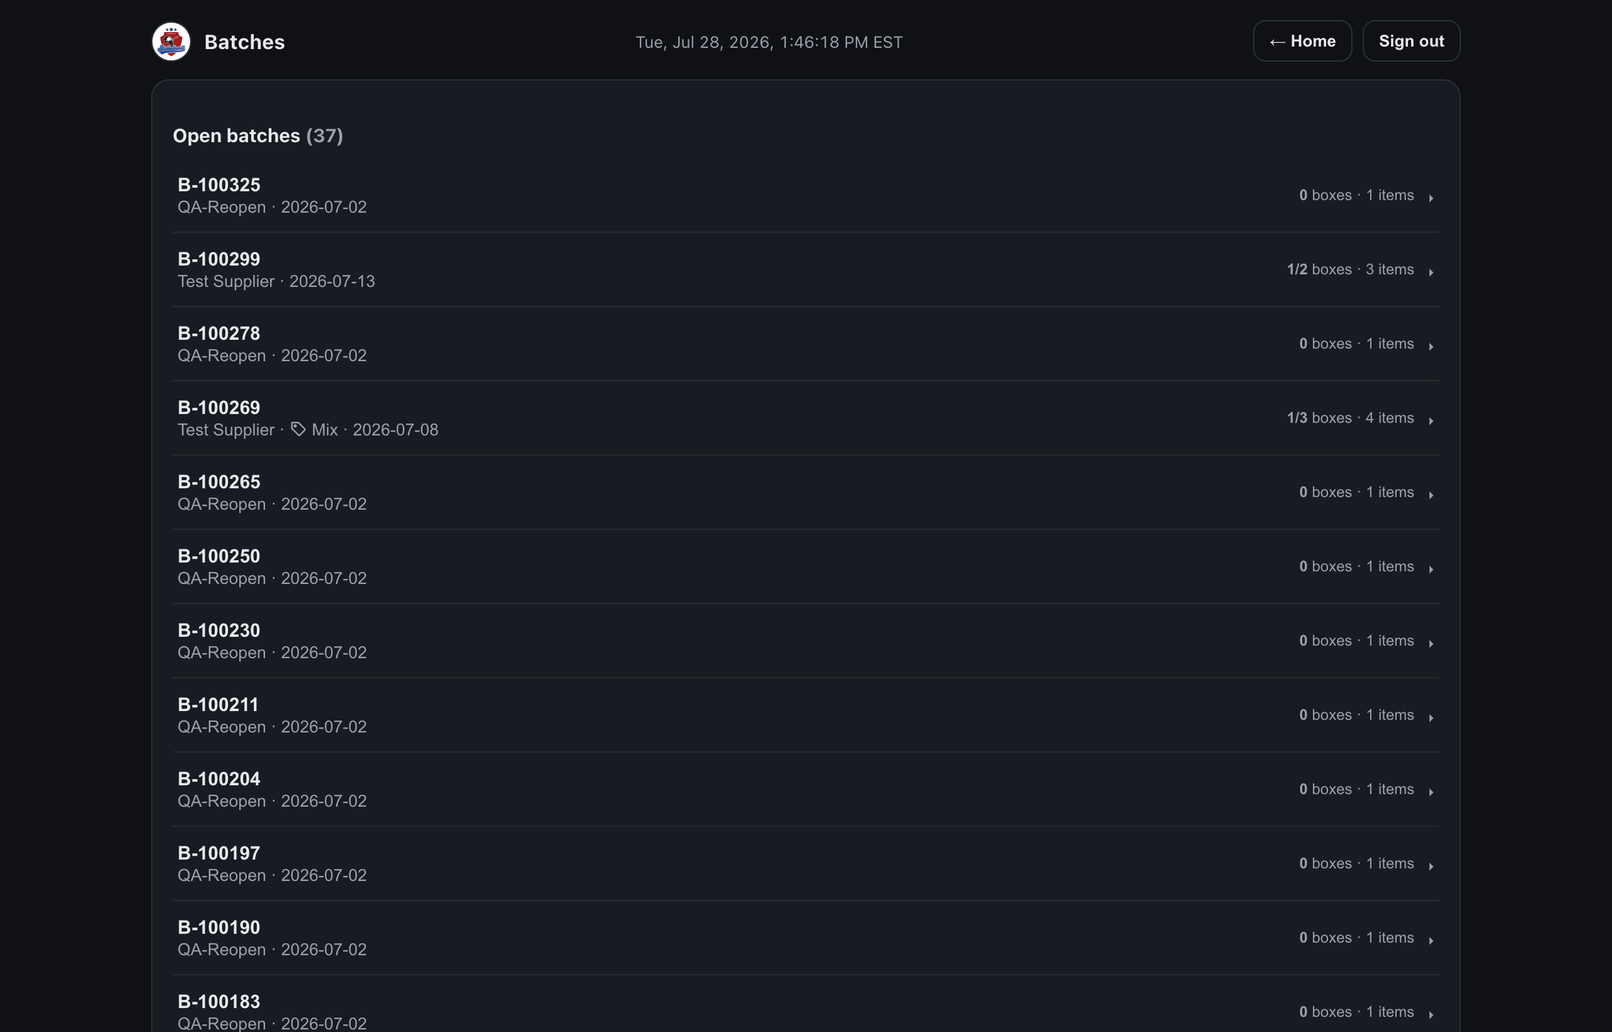
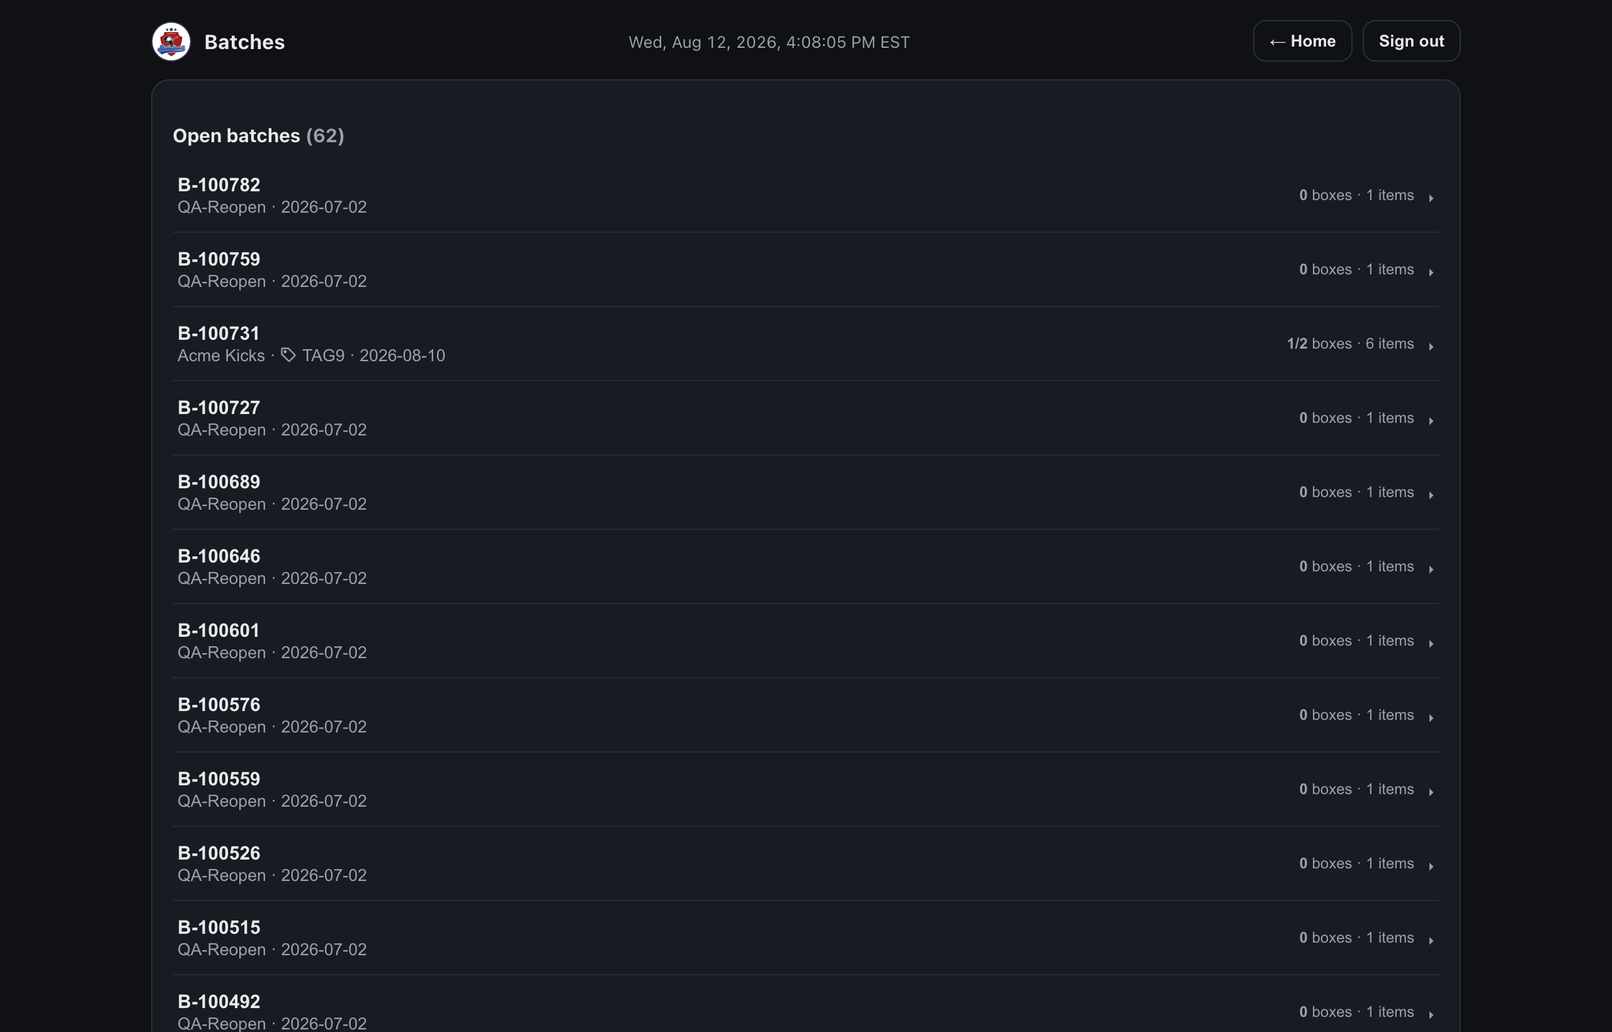
fix(batches): continue a pending box from the Batch page
Reported from the floor: "How do I continue a batch? When I go into batches and
click a batch I'm trying to continue, I am getting this screen but no obvious way
to continue or add items to any of the boxes marked 'pending'."

He was right -- a pending row was a dead end. The only action on the screen was
"+ Add box", which creates box N+1 rather than filling the box in his hands, so
following it would have quietly built a batch of empty boxes beside the real ones.

Each non-received box row now carries its own "Add items". It opens the receiving
wizard in box mode AIMED AT THAT BOX: onAddBox(batch, box) -> batchContext.box ->
boxTarget, the box's tracking prefills the header, and the commit passes
boxNumber = box.box_number so addBatchBox's find-or-create reuses that row instead
of opening a new one. Received boxes get no button -- they're closed, and the
box-commit CAS would refuse them anyway.

Also here:
- A line on the card saying what "pending" means and which button is which,
  since the two actions are one tap apart and only one of them is ever right.
- The row's button and its expand-to-shoes button are now siblings, not nested
  (a button inside a button is invalid, and the inner one eats the row's tap).
- On a phone the row could no longer hold box + tracking + count + status AND a
  button: the tracking number collapsed to "1...", which is the one thing you
  match against the label in your hand. It drops to its own line below 560px.
[…]

diff --git a/e2e/batch-continue-box.spec.js b/e2e/batch-continue-box.spec.js
@@ -1,0 +1,118 @@
+// Continuing a multi-box batch from the Batch page.
+//
+// Reported from the floor: "How do I continue a batch? I go into Batches, click the
+// batch, and there's no obvious way to continue or add items to any of the boxes
+// marked 'pending'." He was right — a pending row was a dead end. The only visible
+// action was "+ Add box", which creates box N+1 rather than filling the box in front
+// of him, so following it would have quietly built a batch of empty boxes.
+//
+// A pending box now carries its own "Add items", and the scans land in THAT box —
+// same row, same number, same tracking.
+import { test, expect } from '@playwright/test';
+import { signToken } from '../api/_lib/util.js';
+import { loadEnv, loginAs } from './helpers/auth.js';
+import pg from 'pg';
+
+loadEnv();
+const pool = new pg.Pool({ connectionString: process.env.DATABASE_URL });
+const q = (text, values) => pool.query(text, values).then((r) => r.rows);
+const authHeaders = () => ({
+  Authorization: `Bearer ${signToken({ uid: 'e2e-wh', username: 'e2e_wh', name: 'E2E Warehouse', role: 'warehouse' })}`,
+});
+
+const SUPPLIER = 'E2E Continue-Box Supplier';
+const SKU = 'E2E-CONTBOX-A';
+let batchId = null;
+let batchCode = null;
+
+// An open 3-box batch whose boxes are all recorded but empty — exactly the screen
+// that prompted the report.
+test.beforeAll(async ({ request }) => {
+  const created = await request.post('/api/batches/create-open', {
+    headers: authHeaders(),
+    data: { batch: { buyer: 'stickballman12', supplier: SUPPLIER, dateReceived: '2026-08-13', expectedBoxes: 3 } },
+  });
+  expect(created.status()).toBe(200);
+  ({ id: batchId, batchCode } = await created.json());
+  const synced = await request.post('/api/batches/sync-boxes', {
+    headers: authHeaders(),
+    data: {
+      batchId,
+      boxes: [1, 2, 3].map((n) => ({ boxNumber: n, trackingNumber: `E2E-CONT-${n}` })),
+    },
+  });
+  expect(synced.status()).toBe(200);
+});
+
+test.afterAll(async () => {
+  await q('DELETE FROM item_events WHERE item_id IN (SELECT id FROM items WHERE sku = $1)', [SKU]);
+  await q('DELETE FROM items WHERE sku = $1', [SKU]);
+  // Sweep the supplier, not just this run's batch — a spec that fails midway would
+  // otherwise leave an open batch behind in the dev DB on every attempt.
+  await q('DELETE FROM batch_boxes WHERE batch_id IN (SELECT id FROM batches WHERE supplier_name = $1)', [SUPPLIER]);
+  await q('DELETE FROM batches WHERE supplier_name = $1', [SUPPLIER]);
+  await pool.end();
+});
+
+// /batches has no deep link — the batch is reached the way staff reach it.
+async function openBatch(page) {
+  await page.goto('/batches');
+  await page.locator('.batch-nav-row').filter({ hasText: batchCode }).first().click();
+  await expect(page.locator('.batch-page-code')).toContainText(batchCode);
+}
+
+test('a pending box offers "Add items", and scans land in THAT box', async ({ page }) => {
+  await loginAs(page, 'warehouse');
+  await openBatch(page);
+
+  const row2 = page.locator('.box-row-wrap').filter({ hasText: 'Box 2' });
+  await expect(row2).toContainText('pending');
+  // The dead end this fixes: every pending row must offer the way forward.
+  await expect(page.locator('.box-row-add')).toHaveCount(3);
+
+  await row2.getByRole('button', { name: 'Add items' }).click();
+
+  // Box mode, aimed at box 2 — not "Add a box", which is the other thing entirely.
+  await expect(page.locator('.box-context')).toContainText('Box 2');
+  await expect(page.locator('.rows-title').first()).toContainText('Continue box 2');
+  // Its tracking comes along, so re-typing it isn't the price of continuing.
+  await expect(page.locator('.track-field input').first()).toHaveValue('E2E-CONT-2');
+
+  // Stub the catalogue so this spec tests the box plumbing, not a third party.
+  await page.route('**/api/items/find*', (r) => r.fulfill({ json: { ok: true, product: null, units: [] } }));
+  await page.route('**/api/sku-search', (r) => r.fulfill({
+    json: { ok: true, product: { name: 'E2E Continue Runner', sku: SKU, upc: null, image: null, brand: 'Nike', colorway: 'Black/White', sizes: ['9', '9.5'], gender: 'Men', source: 'alias' } },
+  }));
+  await page.getByRole('button', { name: 'Next →' }).click();
+  await page.getByRole('button', { name: '+ Add Item' }).click();
+  await page.locator('.modal.additem input').first().fill(SKU);
+  await page.locator('.modal.additem').getByRole('button', { name: 'Add' }).click();
+  await expect(page.locator('.modal.additem')).toContainText('E2E Continue Runner');
+  await page.locator('.size-chips').getByRole('button', { name: '9.5', exact: true }).click();
+  await page.getByRole('button', { name: 'Complete item ✓' }).click();
+  await expect(page.locator('.modal.additem')).toHaveCount(0);
+
+  await page.getByRole('button', { name: 'Review →' }).click();
+  await page.getByRole('button', { name: 'Next →' }).click();
+  await page.getByRole('button', { name: /Submit box/i }).click();
+  await page.getByRole('button', { name: /Yes, (commit|submit)/i }).click();
+  await expect(page.locator('.modal')).toContainText(/saved|received/i, { timeout: 15_000 });
+
+  // The real assertion: the pair is in box 2 — the batch still has THREE boxes, and
+  // no box 4 was quietly opened beside it.
+  const boxes = await q('SELECT box_number, status, (SELECT count(*)::int FROM items i WHERE i.box_id = bx.id) AS n FROM batch_boxes bx WHERE batch_id = $1 ORDER BY box_number', [batchId]);
+  expect(boxes.map((b) => b.box_number)).toEqual([1, 2, 3]);
+  expect(boxes.find((b) => b.box_number === 2).n).toBe(1);
+  expect(boxes.find((b) => b.box_number === 2).status).toBe('received');
+  expect(boxes.filter((b) => b.box_number !== 2).every((b) => b.n === 0)).toBe(true);
+});
+
+test('a received box has no "Add items" — it is closed', async ({ page }) => {
+  await loginAs(page, 'warehouse');
+  await openBatch(page);
+  const row2 = page.locator('.box-row-wrap').filter({ hasText: 'Box 2' });
+  await expect(row2).toContainText('received');
+  await expect(row2.getByRole('button', { name: 'Add items' })).toHaveCount(0);
+  // …while the ones still waiting keep theirs.
+  await expect(page.locator('.box-row-add')).toHaveCount(2);
+});

diff --git a/src/screens/BatchPage.jsx b/src/screens/BatchPage.jsx
@@ -84,6 +84,9 @@ export function BatchPage({ initialBatchId = null, onAddBox, onOpenItem, onHome,
             <h3 className="rows-title">Boxes <span className="muted">({boxes.length})</span></h3>
             {isOpen && <button className="btn primary sm" onClick={() => onAddBox(b)}>+ Add box</button>}
           </div>
+          {isOpen && boxes.some((x) => x.status !== 'received') && (
+            <p className="muted sm">“Pending” means the box is recorded but nothing has been scanned into it yet — tap <b>Add items</b> on its row to continue it. <b>+ Add box</b> is for a box that isn’t listed here at all.</p>
+          )}
           {!boxes.length ? <p className="muted">No boxes yet{isOpen ? ' — tap “Add box” to scan the first one.' : '.'}</p> : (
             <div className="box-list">
               {boxes.map((bx) => {
@@ -92,13 +95,26 @@ export function BatchPage({ initialBatchId = null, onAddBox, onOpenItem, onHome,
                 const empty = bx.item_count === 0;
                 return (
                   <div className={`box-row-wrap ${isBoxOpen ? 'open' : ''}`} key={bx.id}>
-                    <button className="box-row" onClick={() => setOpenBox(isBoxOpen ? null : bx.id)} title={boxItems.length ? 'Show shoes in this box' : 'No shoes in this box yet'}>
-                      <span className="box-caret">{boxItems.length ? (isBoxOpen ? '▾' : '▸') : '·'}</span>
-                      <span className="box-num">Box {bx.box_number}</span>
-                      <span className="box-track muted sm">{bx.tracking_number || 'no tracking'}</span>
-                      <span className="box-count" style={empty ? { color: '#e08f8f', fontWeight: 600 } : undefined}>{bx.item_count} item{bx.item_count === 1 ? '' : 's'}</span>
-                      <span className={`box-status ${bx.status}`}>{bx.status === 'received' ? '✓ received' : 'pending'}</span>
-                    </button>
+                    <div className="box-row-line">
+                      <button className="box-row" onClick={() => setOpenBox(isBoxOpen ? null : bx.id)} title={boxItems.length ? 'Show shoes in this box' : 'No shoes in this box yet'}>
+                        <span className="box-caret">{boxItems.length ? (isBoxOpen ? '▾' : '▸') : '·'}</span>
+                        <span className="box-num">Box {bx.box_number}</span>
+                        <span className="box-track muted sm">{bx.tracking_number || 'no tracking'}</span>
+                        <span className="box-count" style={empty ? { color: '#e08f8f', fontWeight: 600 } : undefined}>{bx.item_count} item{bx.item_count === 1 ? '' : 's'}</span>
+                        <span className={`box-status ${bx.status}`}>{bx.status === 'received' ? '✓ received' : 'pending'}</span>
+                      </button>
+                      {/* How you CONTINUE a box. A pending row is a box that was recorded
+                          (its tracking scanned, or its slot created up front) but never
+                          scanned into — and without this the row was a dead end: the only
+                          visible action was "+ Add box", which creates box N+1 rather than
+                          filling this one. Scans land in THIS box, keeping its number and
+                          tracking. Received boxes get no button: they're closed, and the
+                          commit would be refused anyway. */}
+                      {isOpen && bx.status !== 'received' && (
+                        <button className="btn primary sm box-row-add" onClick={() => onAddBox(b, bx)}
+                          title={`Scan shoes into box ${bx.box_number}`}>Add items</button>
+                      )}
+                    </div>
                     {isBoxOpen && (
                       <div className="box-items">
                         {!boxItems.length ? <div className="muted sm box-items-empty">No shoes in this box yet.</div> : boxItems.map((it) => (

diff --git a/src/screens/Receiving.jsx b/src/screens/Receiving.jsx
@@ -62,12 +62,19 @@ export function Receiving({ mode = 'receiving', navBack, batchContext = null, on
   // "Box mode": adding a box to an existing OPEN multi-box batch (from Batch Page).
   // Step 1 collects only the box tracking #; finish commits the box (boxCommit).
   const isBoxMode = !noShipment && !!batchContext;
+  // Set when CONTINUING an existing (pending) box from the Batch page, rather than
+  // adding a brand-new one. Its box_number is what makes the commit reuse that row —
+  // `addBatchBox` is find-or-create by number — so scans land in the box the user
+  // tapped instead of silently opening box N+1 beside it.
+  const boxTarget = isBoxMode ? (batchContext.box || null) : null;
   const today = estToday();
   const [tab, setTab] = useState('intake');   // 'intake' | 'recent'
   const [step, setStep] = useState(1);         // receiving: 1 shipment·2 items·3 review·4 issues | rescale: 1 details·2 items
 
   const [header, setHeader] = useState({
-    buyer: 'stickballman12', supplier: '', tracking: '', noTracking: false, dateReceived: today,
+    // Continuing an existing pending box: start from ITS tracking number, so a
+    // re-scan/edit is a deliberate act rather than the field silently blanking it.
+    buyer: 'stickballman12', supplier: '', tracking: batchContext?.box?.tracking_number || '', noTracking: false, dateReceived: today,
     defaultCost: '', notes: '', specialRules: '', origin: isInstore ? '' : 'returned', originOther: '',
     batchTag: '', expectedBoxes: '1', // V6 Feature 7: >1 → open multi-box batch
   });
@@ -788,7 +795,7 @@ export function Receiving({ mode = 'receiving', navBack, batchContext = null, on
         const boxTracking = isBoxMode
           ? (header.tracking || null)
           : (boxSlots[activeSlot]?.tracking?.trim() || null);
-        const boxNumber = isBoxMode ? null : activeSlot + 1;
+        const boxNumber = isBoxMode ? (boxTarget?.box_number ?? null) : activeSlot + 1;
         const { box } = await api.batchAddBox(batchId, boxTracking, boxNumber);
         const res = await api.boxCommit({
           batchId, boxId: box.id, items: out, unitIssues: flatUnitIssues,
@@ -909,10 +916,13 @@ export function Receiving({ mode = 'receiving', navBack, batchContext = null, on
           {step === 1 && (
             <>
               <div className="card">
-                <h3 className="rows-title">{isRescale ? 'Rescale details' : isInstore ? 'In-store trip' : isBoxMode ? 'Add a box' : 'Shipment details'}</h3>
+                <h3 className="rows-title">{isRescale ? 'Rescale details' : isInstore ? 'In-store trip' : isBoxMode ? (boxTarget ? `Continue box ${boxTarget.box_number}` : 'Add a box') : 'Shipment details'}</h3>
                 {isBoxMode && (
                   <div className="box-context">
-                    Adding a box to <b>{batchContext.batch_code}</b>{batchContext.batch_tag ? <> · <Icon name="tag" /> {batchContext.batch_tag}</> : ''} · {batchContext.supplier_name || '—'}
+                    {boxTarget
+                      ? <>Adding items to <b>Box {boxTarget.box_number}</b> of <b>{batchContext.batch_code}</b></>
+                      : <>Adding a box to <b>{batchContext.batch_code}</b></>}
+                    {batchContext.batch_tag ? <> · <Icon name="tag" /> {batchContext.batch_tag}</> : ''} · {batchContext.supplier_name || '—'}
                   </div>
                 )}
                 <div className="batch-form">

diff --git a/src/lib/sop/articles.warehouse.js b/src/lib/sop/articles.warehouse.js
@@ -49,6 +49,7 @@ export const WAREHOUSE_ARTICLES = [
     steps: [
       { do: 'On Step 1, set "Boxes expected" to the number of boxes.', note: 'The single tracking field disappears and a list of box rows appears in its place — one row per box.' },
       { do: 'For the box in front of you, type or scan its tracking number into its row.', note: 'If none of the boxes has a tracking number, tick "No tracking number" up in the header instead — the per-box fields disappear.' },
+      { do: 'Coming back to it another day? Batches → open the batch → "Add items" on the row of the box you are holding. The boxes still to do are the ones marked "pending".' },
       { do: 'Tap "Add items" on that row and run the box through Items → Review → Issues → Submit box.' },
       { do: 'You land back on the box list. Do the next box whenever it turns up.', note: 'Boxes can be done out of order — box 3 before box 1 is fine, each keeps its own number.' },
       { do: 'Tap "Finish batch" when everything has arrived.', note: 'The batch also closes itself once the received count reaches the expected count.' },
@@ -98,11 +99,13 @@ export const WAREHOUSE_ARTICLES = [
       { do: 'Home → Receiving Shipment Orders → Batches.' },
       { do: 'Open a batch to see its boxes, each with its tracking number and item count.' },
       { do: 'Expand a box row to see the shoes in it. Tap any VIN to open that unit\'s full detail and history.' },
-      { do: 'Tap "Add box" on an open batch to scan another box into it — this drops you into the receiving wizard in box mode.' },
+      { do: 'To CONTINUE a box marked "pending", tap "Add items" on its own row. That drops you into the receiving wizard aimed at that box — its number and tracking come with it, and everything you scan lands in it.', note: 'Pending means the box is recorded but nothing has been scanned into it yet. This is how you pick a batch back up.' },
+      { do: 'Tap "+ Add box" only for a box that is NOT already listed — a late arrival, or one nobody recorded. It creates the next box number.', warn: 'Do not use "+ Add box" to continue a pending box. It opens a new box beside it, and you end up with a batch of empty ones.' },
       { do: 'Tap "Finish"/mark done when the shipment is complete.', note: 'If the batch belongs to a purchase order, finishing it is what triggers the reconciliation check.' },
     ],
     rules: [
       'A red 0 on a box row means a tracking number was recorded but no items were ever scanned into it. Either scan it or investigate — it is not cosmetic.',
+      'A received box has no "Add items" button. Received is final — reopen the batch only if you genuinely need to correct it.',
     ],
     related: ['receive-multibox', 'receive-against-po', 'reconcile-warehouse'],
     keywords: ['open batch', 'past batches', 'resume', 'add box', 'batch page', 'history'],

diff --git a/src/lib/sop/faq.js b/src/lib/sop/faq.js
@@ -166,6 +166,13 @@ export const FAQ = [
 
   // -------------------------------------------------------------- receiving --
   {
+    id: 'faq-continue-batch',
+    q: 'How do I continue a batch? I open it and the boxes just say "pending".',
+    a: 'Tap "Add items" on the row of the box you are holding. "Pending" means that box is recorded but nothing has been scanned into it yet, and that button drops you into the receiving wizard aimed at that exact box — its number and tracking number come with it, so everything you scan lands in it. Use "+ Add box" only for a box that is not listed at all (a late arrival, or one nobody recorded); it creates the NEXT box number, so using it to continue a pending box leaves you with an empty box beside the one you meant to fill. Received boxes have no button — they are closed.',
+    area: 'intake', roles: WH, see: 'batches-manage',
+    keywords: ['continue', 'resume', 'pending', 'batch', 'add items', 'add box', 'stuck', 'no way to'],
+  },
+  {
     id: 'faq-tracking-required',
     q: 'Why will it not let me commit without a tracking number?',
     a: 'A receiving batch has to be traceable back to the shipment it came from — that link is what makes a discrepancy investigable weeks later. Supplier and tracking are both required and the server enforces it. If the shipment genuinely arrived without a tracking number — hand-delivered, local pickup, a supplier who never sent one — tick "No tracking number" under the field: it commits, and the batch records that there was none, which is different from a blank field. Rescale and in-store batches are exempt, since there is no shipment.',

diff --git a/src/App.jsx b/src/App.jsx
@@ -154,7 +154,8 @@ export default function App() {
   // Existing (old) stock: same admin/warehouse gate as in-store — ph_team short-
   // circuits to PHTeamApp above and never reaches this router.
   if (view === 'existing-stock') return <ExistingStock navBack={navBack} onHome={() => go('home')} onSignOut={signOut} />;
-  if (view === 'batches') return <BatchPage initialBatchId={batchReturnId} onAddBox={(batch) => { setBatchContext(batch); setBatchReturnId(batch.id); go('receiving'); }} onOpenItem={openItem} onHome={() => go('home')} onSignOut={signOut} />;
+  // `box` is set when continuing an EXISTING pending box; absent = add a new one.
+  if (view === 'batches') return <BatchPage initialBatchId={batchReturnId} onAddBox={(batch, box = null) => { setBatchContext({ ...batch, box }); setBatchReturnId(batch.id); go('receiving'); }} onOpenItem={openItem} onHome={() => go('home')} onSignOut={signOut} />;
   if (view === 'inventory') return <Inventory navBack={navBack} openVin={openVin} onConsumedVin={() => setOpenVin(null)} onHome={() => go('home')} onSignOut={signOut} />;
   if (view === 'report') return <PHGrid user={user} onHome={() => go('home')} onSignOut={signOut} />;
   if (view === 'access') return <CheckAccess user={user} onHome={() => go('home')} onSignOut={signOut} />;

diff --git a/src/styles.css b/src/styles.css
@@ -583,6 +583,19 @@ body {
 .progress-bar span { display: block; height: 100%; background: #4f7cff; }
 .box-list { display: flex; flex-direction: column; gap: 6px; }
 .box-row-wrap { border-bottom: 1px solid var(--line, #2a2a2a); }
+/* The row expands to its shoes; "Add items" continues the box. Two separate
+   actions, so they can't be nested — a button inside a button is invalid and the
+   inner one swallows the row's own tap. */
+.box-row-line { display: flex; align-items: center; gap: 8px; }
+.box-row-line .box-row { flex: 1; min-width: 0; }
+.box-row-add { flex: none; white-space: nowrap; }
+/* On a phone the row can't hold box · tracking · count · status AND a button —
+   the tracking number collapsed to "1…", which is the one thing on the row you
+   match against the label in your hand. Drop it to its own line instead. */
+@media (max-width: 560px) {
+  .box-row { flex-wrap: wrap; row-gap: 2px; }
+  .box-track { flex: 1 1 100%; order: 3; padding-left: 24px; }
+}
 .box-row { display: flex; align-items: center; gap: 10px; padding: 8px 0; width: 100%; background: none; border: none; color: inherit; font: inherit; text-align: left; cursor: pointer; }
 .box-caret { width: 14px; color: var(--muted, #8a8a8a); }
 .box-items { padding: 2px 0 8px 24px; }

diff --git a/docs/context/receiving.md b/docs/context/receiving.md
@@ -65,6 +65,14 @@ Full detail: `in-store.md`.
    so committing a pre-materialized slot re-uses its row instead of duplicating.
    The Batch page (`getBatchWithBoxes` now also returns `items`) lets each box row
    **expand to its shoes** — VIN → full detail/history via `onOpenItem`.
+   **Continuing a pending box** (`onAddBox(batch, box)` → `batchContext.box` →
+   `boxTarget`): each non-received row has its own **"Add items"**, which opens
+   Receiving in box-mode **aimed at that box** — its tracking prefills the header and
+   the commit passes `boxNumber = box.box_number`, so `addBatchBox`'s find-or-create
+   **reuses that row**. `+ Add box` (no `box`) still means a box that isn't listed at
+   all and takes the next number — using it to continue a pending box is what left
+   staff with an empty box beside the one they meant to fill. Received boxes get no
+   button (the box-commit CAS would refuse them anyway).
 2. **Items** — `+ Add Item` opens the scanning modal. Field auto-focuses so a
    **HID scanner gun types straight in**. Auto-detects UPC vs SKU. Re-scanning a
    shoe's boxes **auto-increments qty by size**. A **With Box** checkbox sets
